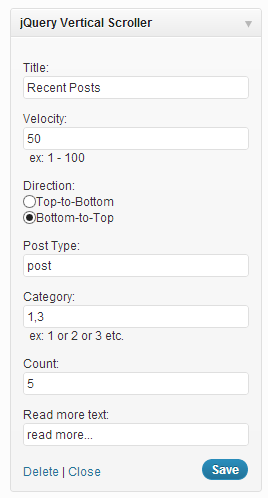
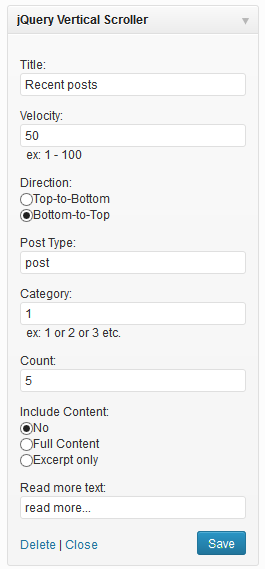
Uploading version 1.2. Added localization and option to show content or excerpt.
git-svn-id: https://plugins.svn.wordpress.org/jquery-vertical-scroller/trunk@637365 b8457f37-d9ea-0310-8a92-e5e31aec5664

diff --git a/style.css b/style.css
@@ -1,3 +1,12 @@
+/*
+Plugin Name: WP jQuery Vertical Scroller
+Plugin URI: http://sirisgraphics.com/development/introducing-wp-jquery-vertical-scroller
+Description: A plugin to add a widget to scroll posts in your sidebar or footer widgets for WordPress powered by jQuery
+Version: 1.2
+Author: Vamsi Pulavarthi
+Author URI: http://sirisgraphics.com/
+License: GPLv2
+*/
 .slider {
     text-align: left;
 }

diff --git a/sg-jqvs-widget-plugin.php b/sg-jqvs-widget-plugin.php
@@ -1,11 +1,11 @@
 <?php
 /*
 Plugin Name: WP jQuery Vertical Scroller
-Plugin URI: http://sirisgraphics.com/wordpress-plugins/wp-scroller
+Plugin URI: http://sirisgraphics.com/development/introducing-wp-jquery-vertical-scroller
 Description: A plugin to add a widget to scroll posts in your sidebar or footer widgets for WordPress powered by jQuery
-Version: 1.1
+Version: 1.2
 Author: Vamsi Pulavarthi
-Author URI: http://sirisgraphics.com/author/vamsi
+Author URI: http://sirisgraphics.com/
 License: GPLv2
 */
 
@@ -14,6 +14,8 @@ add_action( 'widgets_init', 'sg_jquery_scroller_widget_plugin' );
 
  //register our widget
 function sg_jquery_scroller_widget_plugin() {
+    $plugin_dir = basename(dirname(__FILE__));
+    load_plugin_textdomain('sg-jqvs', false, $plugin_dir . '/languages' );
     register_widget( 'sg_jquery_scroller_widget' );
 }
 
@@ -22,11 +24,14 @@ class sg_jquery_scroller_widget extends WP_Widget {
 
     //process the new widget
     function sg_jquery_scroller_widget() {
+
+        $plugin_description = __('Drop this in a widget area to add jQuery Vertical Scroller to your pages.', 'sg-jqvs' );
+        $plugin_title = __( 'jQuery Vertical Scroller', 'sg-jqvs' );
         $widget_ops = array(
 			'classname' => 'sg_jquery_scroller_widget_plugin_class',
-			'description' => 'Drop this in a widget area to add jQuery Vertical Scroller to your pages.'
+			'description' => $plugin_description
 			);
-        $this->WP_Widget( 'sg_jquery_scroller_widget', 'jQuery Vertical Scroller', $widget_ops );
+        $this->WP_Widget( 'sg_jquery_scroller_widget', $plugin_title, $widget_ops );
 
         /* Register all javascripts used in the plugin. */
         wp_register_script( 'scrollerscript', plugins_url('/scripts/jquery-scroller-v1.min.js', __FILE__), array('jquery') );
@@ -35,7 +40,22 @@ class sg_jquery_scroller_widget extends WP_Widget {
 
      //build the widget settings form
     function form($instance) {
-        $defaults = array( 'title' => 'Recent Posts', 'mycategory' => '1', 'mycount' => '5', 'mydirection' => 'bottom', 'myvelocity' => '50', 'myposttype' => 'post', 'myreadmoretext' => 'read more...' );
+
+        //Setup the default setting strings for localization
+        $default_title = __( 'Recent posts', 'sg-jqvs');
+        $default_readmore = __( 'read more...', 'sg-jqvs');
+
+        //Setup the default values for the widget
+        $defaults = array( 'title' => $default_title, 
+                            'mycategory' => '1', 
+                            'mycount' => '5', 
+                            'mydirection' => 'bottom', 
+                            'myvelocity' => '50', 
+                            'myposttype' => 'post', 
+                            'myincludecontent' => 'no',
+                            'myreadmoretext' => $default_readmore );
+        
+        //Assign the default values or original settings to current widget
         $instance = wp_parse_args( (array) $instance, $defaults );
         $title = $instance['title'];
         $mycategory = $instance['mycategory'];
@@ -43,12 +63,13 @@ class sg_jquery_scroller_widget extends WP_Widget {
         $mydirection = $instance['mydirection'];
         $myvelocity = $instance['myvelocity'];
         $myposttype = $instance['myposttype'];
+        $myincludecontent = $instance['myincludecontent'];
         $myreadmoretext = $instance['myreadmoretext'];
 ?>
 
     <p>
         <p>
-            Title:
+            <?php _e( 'Title:', 'sg-jqvs' ); ?>
             <input class="widefat"
                     name="<?php echo $this->get_field_name( 'title' ); ?>"
                     type="text"
@@ -56,7 +77,7 @@ class sg_jquery_scroller_widget extends WP_Widget {
 
         </p>
         <p>
-            Velocity:
+            <?php _e( 'Velocity:', 'sg-jqvs' ); ?>
             <input class="widefat"
                 name="<?php echo $this->get_field_name( 'myvelocity' ); ?>"
                 type="text"
@@ -64,38 +85,53 @@ class sg_jquery_scroller_widget extends WP_Widget {
             &nbsp; ex: 1 - 100
         </p>
         <p>
-            Direction:<br />
-            <input type="radio"
-                name="<?php echo $this->get_field_name( 'mydirection' ); ?>"
-                value="top" <?php checked( $mydirection, 'top' ); ?> >Top-to-Bottom
+            <?php _e( 'Direction:', 'sg-jqvs' ); ?><br />
+            <input type="radio" 
+                name="<?php echo $this->get_field_name( 'mydirection' ); ?>" 
+                value="top" <?php checked( $mydirection, 'top' ); ?> ><?php _e( 'Top-to-Bottom', 'sg-jqvs' ); ?>
             <br />
-            <input type="radio"
-                name="<?php echo $this->get_field_name( 'mydirection' ); ?>"
-                value="bottom" <?php checked( $mydirection, 'bottom' ); ?> >Bottom-to-Top
+            <input type="radio" 
+                name="<?php echo $this->get_field_name( 'mydirection' ); ?>" 
+                value="bottom" <?php checked( $mydirection, 'bottom' ); ?> ><?php _e( 'Bottom-to-Top', 'sg-jqvs' ); ?>
         </p>
         <p>
-            Post Type:
+            <?php _e( 'Post Type:', 'sg-jqvs' ); ?>
             <input class="widefat"
                 name="<?php echo $this->get_field_name( 'myposttype' ); ?>"
                 type="text"
                 value="<?php echo esc_attr( $myposttype ); ?>" />
         </p>
         <p>
-        Category:
+        <?php _e( 'Category:', 'sg-jqvs' ); ?>
             <input class="widefat"
                 name="<?php echo $this->get_field_name( 'mycategory' ); ?>"
                 type="text"
                 value="<?php echo esc_attr( $mycategory ); ?>" /> &nbsp; ex: 1 or 2 or 3 etc.
         </p>
         <p>
-            Count:
+            <?php _e( 'Count:', 'sg-jqvs' ); ?>
             <input class="widefat"
                     name="<?php echo $this->get_field_name( 'mycount' ); ?>"
                     type="text"
                     value="<?php echo esc_attr( $mycount ); ?>" />
         </p>
         <p>
-            Read more text:
+            <?php _e( 'Include Content:', 'sg-jqvs' ); ?>
+            <br />
+            <input type="radio" 
+                name="<?php echo $this->get_field_name( 'myincludecontent' ); ?>" 
+                value="no" <?php checked( $myincludecontent, 'no' ); ?> ><?php _e( 'No', 'sg-jqvs' ); ?>
+            <br />
+            <input type="radio" 
+                name="<?php echo $this->get_field_name( 'myincludecontent' ); ?>" 
+                value="content" <?php checked( $myincludecontent, 'content' ); ?> ><?php _e( 'Full Content', 'sg-jqvs' ); ?>
+            <br />
+            <input type="radio" 
+                name="<?php echo $this->get_field_name( 'myincludecontent' ); ?>" 
+                value="excerpt" <?php checked( $myincludecontent, 'excerpt' ); ?> ><?php _e( 'Excerpt only', 'sg-jqvs' ); ?>
+        </p>
+        <p>
+            <?php _e( 'Read more text:', 'sg-jqvs' ); ?>
             <input class="widefat"
                     name="<?php echo $this->get_field_name( 'myreadmoretext' ); ?>"
                     type="text"
@@ -114,6 +150,7 @@ class sg_jquery_scroller_widget extends WP_Widget {
         $instance['mydirection'] = strip_tags( $new_instance['mydirection'] );
         $instance['myvelocity'] = strip_tags( $new_instance['myvelocity'] );
         $instance['myposttype'] = strip_tags( $new_instance['myposttype'] );
+        $instance['myincludecontent'] = strip_tags( $new_instance['myincludecontent'] );
         $instance['myreadmoretext'] = strip_tags( $new_instance['myreadmoretext'] );
         return $instance;
     }
@@ -126,9 +163,10 @@ class sg_jquery_scroller_widget extends WP_Widget {
         $title = apply_filters( 'widget_title', $instance['title'] );
         $mycategory = empty( $instance['mycategory'] ) ? '&nbsp;' : $instance['mycategory'];
         $mycount = empty( $instance['mycount'] ) ? '&nbsp;' : $instance['mycount'];
+        $mydirection = empty( $instance['mydirection'] ) ? '&nbsp;' : $instance['mydirection'];
         $myvelocity = empty( $instance['myvelocity'] ) ? '&nbsp;' : $instance['myvelocity'];
         $myposttype = empty( $instance['myposttype'] ) ? '&nbsp;' : $instance['myposttype'];
-        $mydirection = empty( $instance['mydirection'] ) ? '&nbsp;' : $instance['mydirection'];
+        $myincludecontent = empty( $instance['myincludecontent'] ) ? '&nbsp;' : $instance['myincludecontent'];
         $myreadmoretext = empty( $instance['myreadmoretext'] ) ? '&nbsp;' : $instance['myreadmoretext'];
 
         if ( !empty( $title ) ) { echo $before_title . $title . $after_title; };
@@ -189,6 +227,11 @@ class sg_jquery_scroller_widget extends WP_Widget {
                 ?>
                 <li>
                     <a href="<?php the_permalink(); ?>"><?php the_title(); ?></a>
+                    <?php if ( $myincludecontent == 'content' ) { ?>
+                        <br /><?php the_content(); ?>
+                    <?php } elseif ( $myincludecontent == 'excerpt' ) { ?>
+                        <br /><?php the_excerpt(); ?>
+                    <?php } ?>
                 </li>
                 <?php endforeach; ?>
                 <?php $post = $tmp_post; ?>
